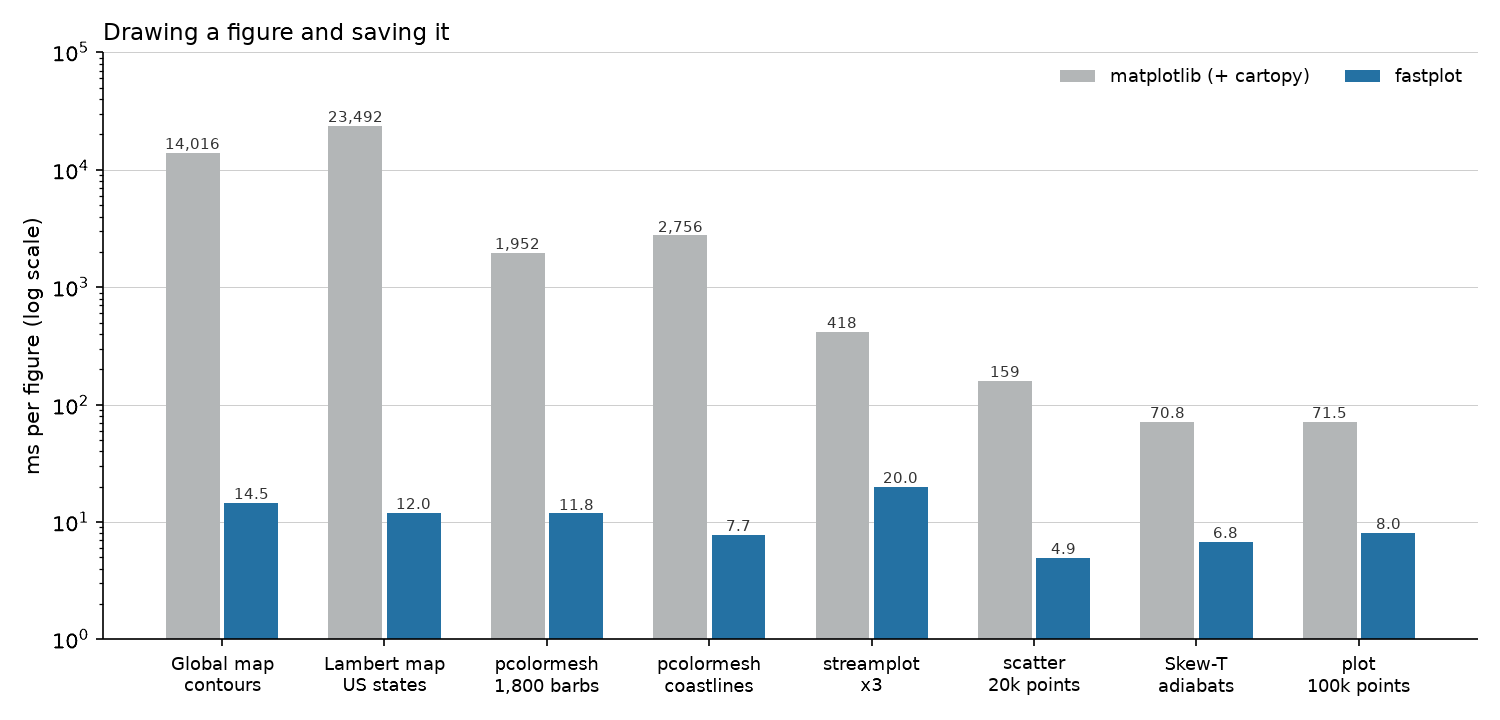
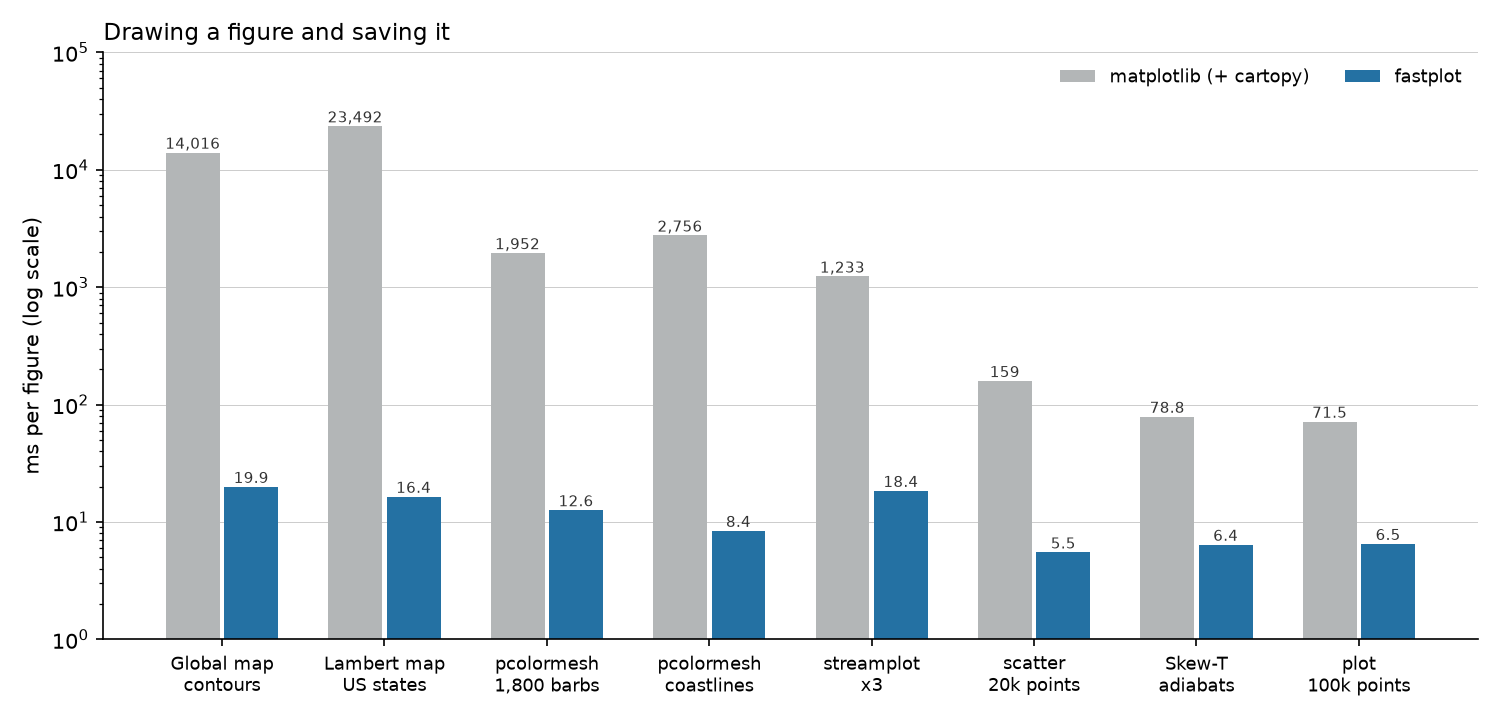
Docs: current fastplot times on the speed page [skip ci]
The map and plot tables and the chart showed times from before 0.4.0.
They now show this tree's. matplotlib's and cartopy's times are as they
were, except the Skew-T, streamplot, hodograph and triangulation rows,
which had no script: tools/bench_special.py now times those figures for
both, and they are as it draws them.

diff --git a/tools/bench_special.py b/tools/bench_special.py
@@ -1,0 +1,108 @@
+"""The speed page's Skew-T, streamplot, hodograph and triangulation rows,
+matplotlib (with MetPy) vs fastplot: warm frames (figure made, drawn, PNG to
+memory), median of 9, ms.  python tools/bench_special.py mpl|fp"""
+import io
+import os
+import sys
+import time
+
+import numpy as np
+
+sys.path.insert(0, os.path.dirname(os.path.dirname(os.path.abspath(__file__))))
+from fastplot.skewt import dry_lapse, moist_lapse  # noqa: E402  (the data, not timed)
+
+MPL = len(sys.argv) > 1 and sys.argv[1] == 'mpl'
+if MPL:
+    import matplotlib
+    matplotlib.use('Agg')
+    import matplotlib.pyplot as plt
+    import matplotlib.tri as mtri
+    from metpy.plots import Hodograph, SkewT
+    from metpy.units import units
+
+    def q(a, unit):
+        return a * units(unit)
+else:
+    import fastplot.pyplot as plt
+    import fastplot.tri as mtri
+    from fastplot.skewt import Hodograph, SkewT
+
+    def q(a, unit):
+        return a
+
+p = np.linspace(1000, 100, 60)
+T = 25 - 0.06 * (1000 - p)
+Td = T - np.linspace(3, 25, p.size)
+parcel = np.where(p >= 850, dry_lapse(p, 298.15, 1000.0), moist_lapse(p, 291.0, 850.0)) - 273.15
+u = np.linspace(0, 60, p.size)
+v = 20 * np.sin(np.linspace(0, 3, p.size))
+gy, gx = np.mgrid[-2:2:60j, -3:3:90j]
+su, sv = -1 - gx ** 2 + gy, 1 + gx - gy ** 2
+rng = np.random.default_rng(3)
+tx, ty = rng.uniform(-1, 1, (2, 400))
+tz = np.cos(3 * tx) * np.sin(2 * ty)
+
+
+def skewt():
+    fig = plt.figure(figsize=(7, 7), dpi=100)
+    skew = SkewT(fig, rotation=45)
+    P, TT, TD, PA = q(p, 'hPa'), q(T, 'degC'), q(Td, 'degC'), q(parcel, 'degC')
+    skew.plot(P, TT, 'r')
+    skew.plot(P, TD, 'g')
+    skew.plot(P, PA, 'k--')
+    skew.plot_barbs(P[::3], q(u[::3], 'knot'), q(v[::3], 'knot'))
+    skew.shade_cape(P, TT, PA)
+    skew.shade_cin(P, TT, PA, TD)
+    skew.plot_dry_adiabats()
+    skew.plot_moist_adiabats()
+    skew.plot_mixing_lines()
+    skew.ax.set_xlim(-40, 50)
+    return fig
+
+
+def streams():
+    fig, axs = plt.subplots(1, 3, figsize=(8, 5), dpi=100)
+    axs[0].streamplot(gx, gy, su, sv)
+    axs[1].streamplot(gx, gy, su, sv, color=np.hypot(su, sv), cmap='viridis')
+    axs[2].streamplot(gx, gy, su, sv, density=2, linewidth=0.7)
+    return fig
+
+
+def hodographs():
+    fig, axs = plt.subplots(1, 2, figsize=(8, 5), dpi=100)
+    for ax in axs:
+        h = Hodograph(ax, component_range=80)
+        h.add_grid(increment=20)
+        h.plot_colormapped(u, v, p, cmap='viridis')
+        h.wind_vectors(u[::6], v[::6])
+    return fig
+
+
+def tri():
+    t = mtri.Triangulation(tx, ty)
+    fig, axs = plt.subplots(2, 3, figsize=(8, 5), dpi=100)
+    axs[0, 0].tricontourf(t, tz, levels=10)
+    cs = axs[0, 1].tricontour(t, tz, levels=6, colors='k')
+    axs[0, 1].clabel(cs, fontsize=6)
+    axs[0, 2].tripcolor(t, tz)
+    axs[1, 0].tripcolor(t, tz, shading='gouraud')
+    axs[1, 1].triplot(t, lw=0.4)
+    return fig
+
+
+def frame(make):
+    fig = make()
+    fig.savefig(io.BytesIO(), format='png')
+    plt.close(fig)
+
+
+if __name__ == '__main__':
+    for name, make in (('Skew-T', skewt), ('streamplot x3', streams), ('hodographs x2', hodographs),
+                       ('tri x5', tri)):
+        frame(make)                                     # warm: imports, kernels, caches
+        ts = []
+        for _ in range(9):
+            t = time.perf_counter()
+            frame(make)
+            ts.append(time.perf_counter() - t)
+        print('%-16s %8.1f' % (name, 1e3 * float(np.median(ts))), flush=True)

diff --git a/docs/examples/speed_chart.py b/docs/examples/speed_chart.py
@@ -1,6 +1,7 @@
 """Milliseconds to draw a figure and save it as PNG: matplotlib (with cartopy
-for the maps) and fastplot on the CPU. Numbers from tools/bench.py and
-tools/bench_plain.py on an i7-13700K. The chart is drawn with fastplot."""
+for the maps) and fastplot on the CPU. Numbers from tools/bench.py,
+tools/bench_plain.py and tools/bench_special.py on an i7-13700K. The chart
+is drawn with fastplot."""
 import os
 
 import numpy as np
@@ -11,8 +12,8 @@ cases = ['Global map\ncontours', 'Lambert map\nUS states',
          'pcolormesh\n1,800 barbs', 'pcolormesh\ncoastlines', 'streamplot\nx3',
          'scatter\n20k points', 'Skew-T\nadiabats', 'plot\n100k points']
 times = {                                            # ms per figure
-    'matplotlib (+ cartopy)': [14016, 23492, 1952, 2756, 418, 158.8, 70.8, 71.5],
-    'fastplot': [14.5, 12.0, 11.8, 7.7, 20, 4.9, 6.8, 8.0],
+    'matplotlib (+ cartopy)': [14016, 23492, 1952, 2756, 1233, 158.8, 78.8, 71.5],
+    'fastplot': [19.9, 16.4, 12.6, 8.4, 18.4, 5.5, 6.4, 6.5],
 }
 colours = ['#b3b6b7', '#2471a3']
 

diff --git a/docs/speed.md b/docs/speed.md
@@ -2,9 +2,10 @@
 
 All times are for warm frames (each a new figure, PNG written), measured on
 Windows 11 with an Intel i7-13700K (8 performance and 8 efficiency cores)
-and an RTX 5070 Ti. fastplot's numbers are the median of 9 runs and
-matplotlib's the median of 5, since its times vary by about 30% between
-runs. The scripts are in `tools/`, so you can measure your own machine.
+and an RTX 5070 Ti. fastplot's numbers are the median of three runs of 9
+frames each (7 for the plots), and matplotlib's the median of 5 or more
+frames, since its times vary by about 30% between runs. The scripts are
+in `tools/`, so you can measure your own machine.
 
 ![Speed comparison](images/speed_chart.png)
 
@@ -14,14 +15,14 @@ One GFS 0.25° field (1440 x 721) at 1800 x 975 pixels, `tools/bench.py`:
 
 | Figure | matplotlib + cartopy | fastplot CPU | fastplot GPU | Speed-up |
 |---|---:|---:|---:|---:|
-| `pcolormesh` | 2,177 ms | 6.1 ms | 6.7 ms | 360x |
-| `contourf`, 43 levels | 18,831 ms | 5.1 ms | 5.3 ms | 3,700x |
-| `contour` + `clabel` | 2,205 ms | 14.9 ms | 14.0 ms | 150x |
-| pcolormesh, coastlines, borders, gridline labels, colorbar | 2,756 ms | 7.7 ms | 7.6 ms | 360x |
-| contourf and the same | 19,495 ms | 7.0 ms | 6.5 ms | 2,800x |
-| contourf, contour and the same | 14,016 ms | 14.5 ms | 14.5 ms | 970x |
-| Lambert CONUS: contourf, contour, states | 23,492 ms | 12.0 ms | 11.3 ms | 1,950x |
-| pcolormesh and 1,800 wind barbs | 1,952 ms | 11.8 ms | 11.5 ms | 165x |
+| `pcolormesh` | 2,177 ms | 6.9 ms | 7.7 ms | 320x |
+| `contourf`, 43 levels | 18,831 ms | 5.5 ms | 6.7 ms | 3,400x |
+| `contour` + `clabel` | 2,205 ms | 18.8 ms | 19.0 ms | 120x |
+| pcolormesh, coastlines, borders, gridline labels, colorbar | 2,756 ms | 8.4 ms | 8.7 ms | 330x |
+| contourf and the same | 19,495 ms | 7.3 ms | 7.7 ms | 2,700x |
+| contourf, contour and the same | 14,016 ms | 19.9 ms | 20.1 ms | 700x |
+| Lambert CONUS: contourf, contour, states | 23,492 ms | 16.4 ms | 16.6 ms | 1,400x |
+| pcolormesh and 1,800 wind barbs | 1,952 ms | 12.6 ms | 12.4 ms | 155x |
 
 Most of cartopy's time goes into reprojecting polygons one by one, which
 fastplot never does. Plain matplotlib without cartopy is quicker, at about
@@ -30,22 +31,23 @@ same field, so on non-map figures the gain is more like 10 to 30 times.
 
 ## Plots
 
-800 x 500 pixels, `tools/bench_plain.py`, CPU:
+800 x 500 pixels, `tools/bench_plain.py` (the last four rows:
+`tools/bench_special.py`), CPU:
 
 | Figure | matplotlib | fastplot | Speed-up |
 |---|---:|---:|---:|
-| `plot`, 100k points | 71.5 ms | 8.0 ms | 9x |
-| `scatter`, 20k points coloured by value | 158.8 ms | 4.9 ms | 32x |
-| `hist`, 1M values, 100 bins | 63.6 ms | 3.3 ms | 19x |
-| `bar` (50) with error bars | 78.2 ms | 3.1 ms | 25x |
-| `pcolormesh` 500 x 500 | 163.6 ms | 4.5 ms | 36x |
-| `contourf` + `contour` 300 x 200 | 83.3 ms | 4.3 ms | 19x |
-| `imshow` RGB 600 x 400 | 106.1 ms | 3.9 ms | 27x |
+| `plot`, 100k points | 71.5 ms | 6.5 ms | 11x |
+| `scatter`, 20k points coloured by value | 158.8 ms | 5.5 ms | 29x |
+| `hist`, 1M values, 100 bins | 63.6 ms | 3.5 ms | 18x |
+| `bar` (50) with error bars | 78.2 ms | 3.8 ms | 21x |
+| `pcolormesh` 500 x 500 | 163.6 ms | 4.6 ms | 36x |
+| `contourf` + `contour` 300 x 200 | 83.3 ms | 4.7 ms | 18x |
+| `imshow` RGB 600 x 400 | 106.1 ms | 4.5 ms | 24x |
 | Log-pressure `fill_betweenx` | 68.5 ms | 2.7 ms | 25x |
-| Skew-T with barbs, CAPE/CIN, adiabats and mixing lines, 700 x 700 | 70.8 ms | 6.8 ms | 10x |
-| `streamplot` x3, including integration | 418 ms | 20 ms | 21x |
-| Two hodographs with rings, coloured lines and vectors | 52.3 ms | 5.8 ms | 9x |
-| `tricontourf`, `tricontour` + `clabel`, `tripcolor` x2, `triplot` (400 points) | 109.3 ms | 8.5 ms | 13x |
+| Skew-T with barbs, CAPE/CIN, adiabats and mixing lines, 700 x 700 | 78.8 ms | 6.4 ms | 12x |
+| `streamplot` x3, including integration | 1,233 ms | 18.4 ms | 67x |
+| Two hodographs with rings, coloured lines and vectors | 93.9 ms | 7.1 ms | 13x |
+| `tricontourf`, `tricontour` + `clabel`, `tripcolor` x2, `triplot` (400 points) | 208.8 ms | 18.9 ms | 11x |
 
 ## How it works
 

diff --git a/docs/index.md b/docs/index.md
@@ -33,7 +33,7 @@ pip install git+https://github.com/Rochy111/fastplot
 </div>
 
 <div class="facts">
-<div><span class="num">14.5 ms</span><span class="what">to draw and save a global GFS map with filled contours, labelled contours, coastlines and a colorbar</span></div>
+<div><span class="num">20 ms</span><span class="what">to draw and save a global GFS map with filled contours, contour lines, coastlines, borders, labelled gridlines and a colorbar</span></div>
 <div><span class="num">14 s</span><span class="what">for the same figure with matplotlib and cartopy</span></div>
 <div><span class="num">12</span><span class="what">map projections, with cartopy's class names and arguments</span></div>
 <div><span class="num">0.2–0.3 s</span><span class="what">from starting Python to a saved map</span></div>

diff --git a/README.md b/README.md
@@ -7,8 +7,9 @@ fastplot draws weather maps and scientific plots with the matplotlib and
 cartopy interface. It renders directly to pixels with numba on every CPU
 core, or with CUDA on an NVIDIA GPU, instead of building matplotlib's artist
 tree and reprojecting polygons. A global GFS map with filled contours,
-labelled contours, coastlines and a colorbar takes 14.5 ms to draw and
-save; matplotlib and cartopy take about 14 seconds for the same figure.
+contour lines, coastlines, borders, labelled gridlines and a colorbar takes
+20 ms to draw and save; matplotlib and cartopy take about 14 seconds for
+the same figure.
 
 **Documentation:** https://rochy111.github.io/fastplot/ ·
 **Changes:** [CHANGELOG.md](CHANGELOG.md)
